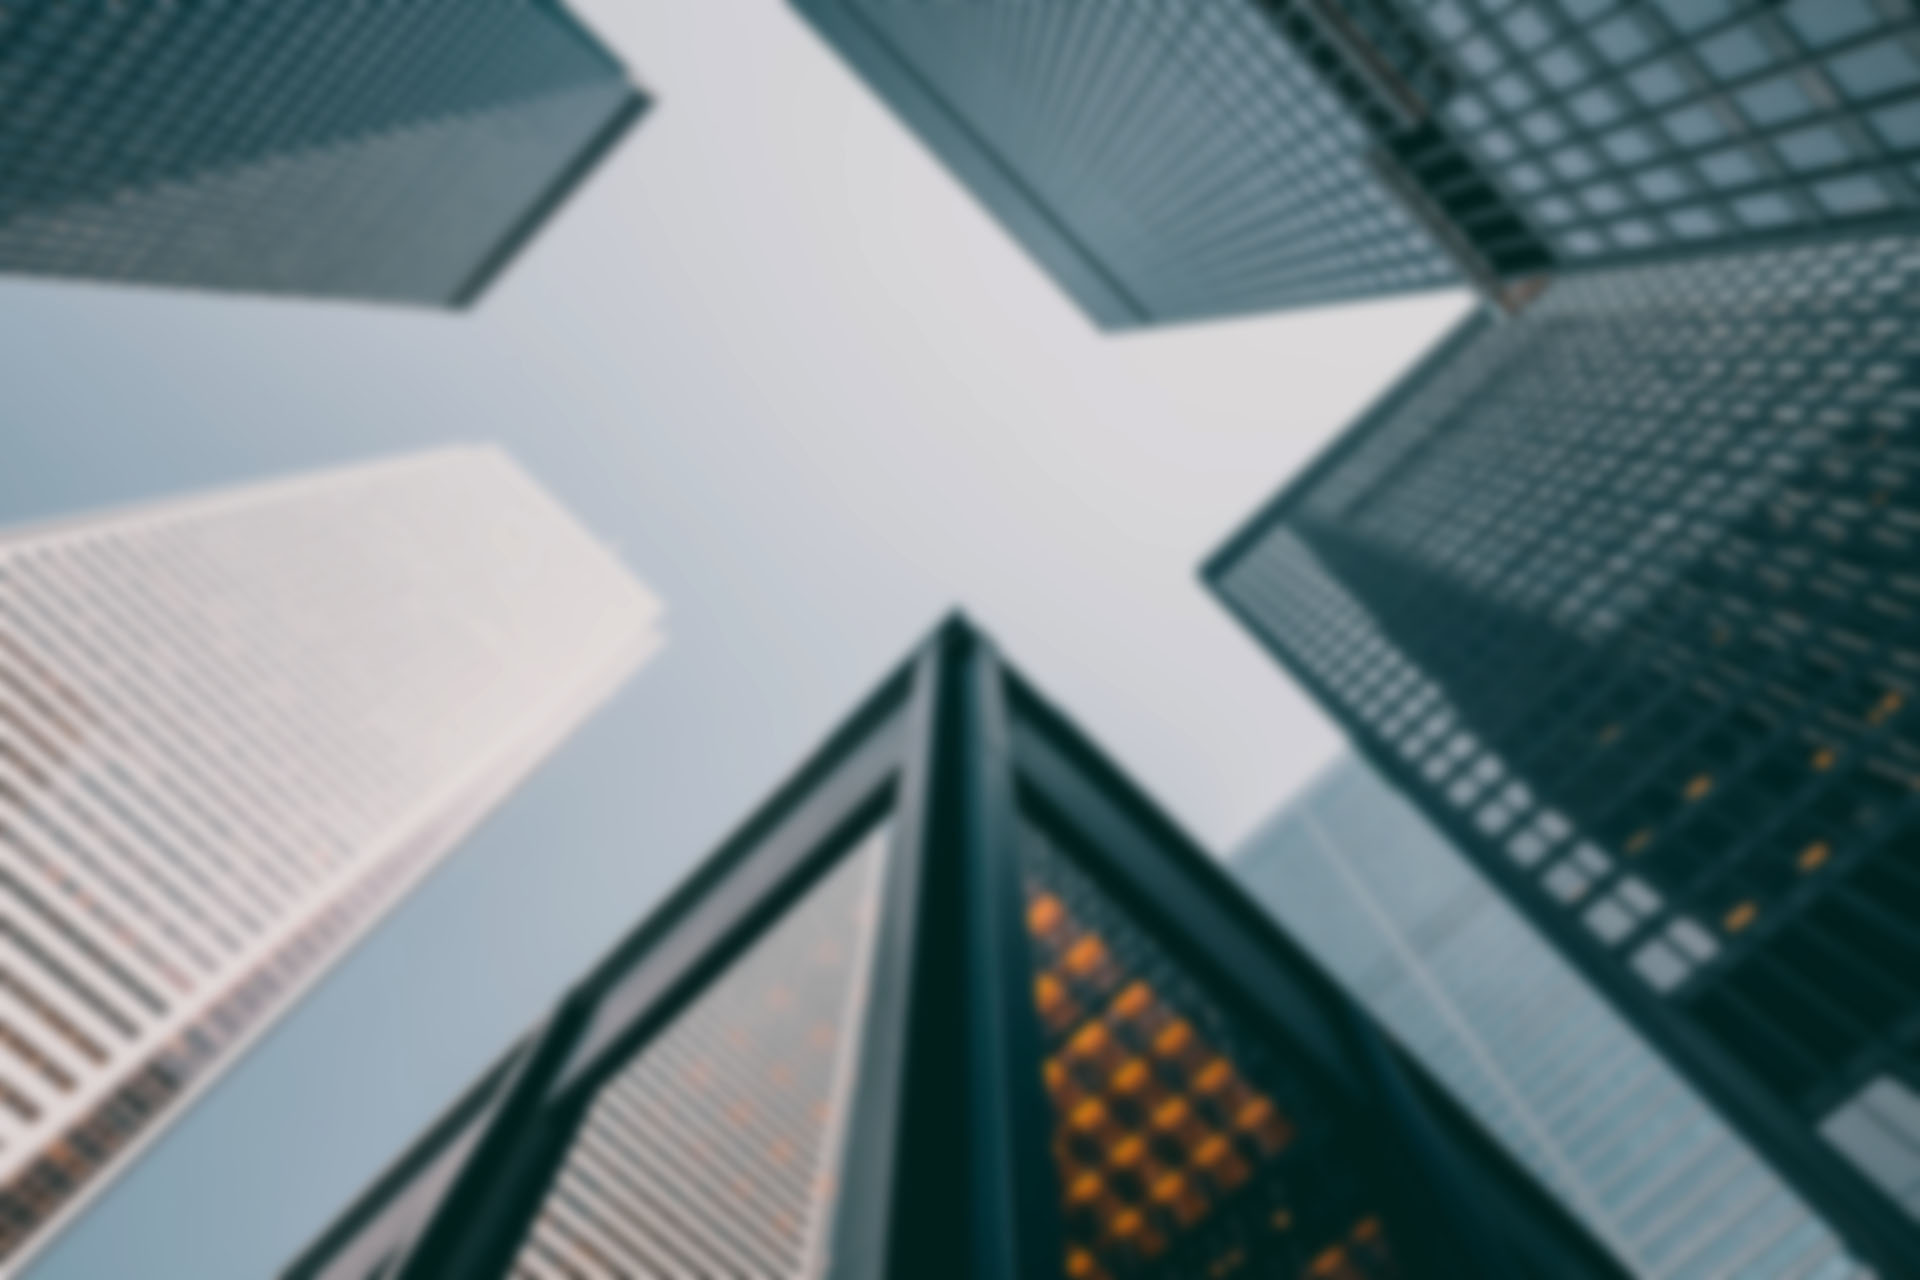
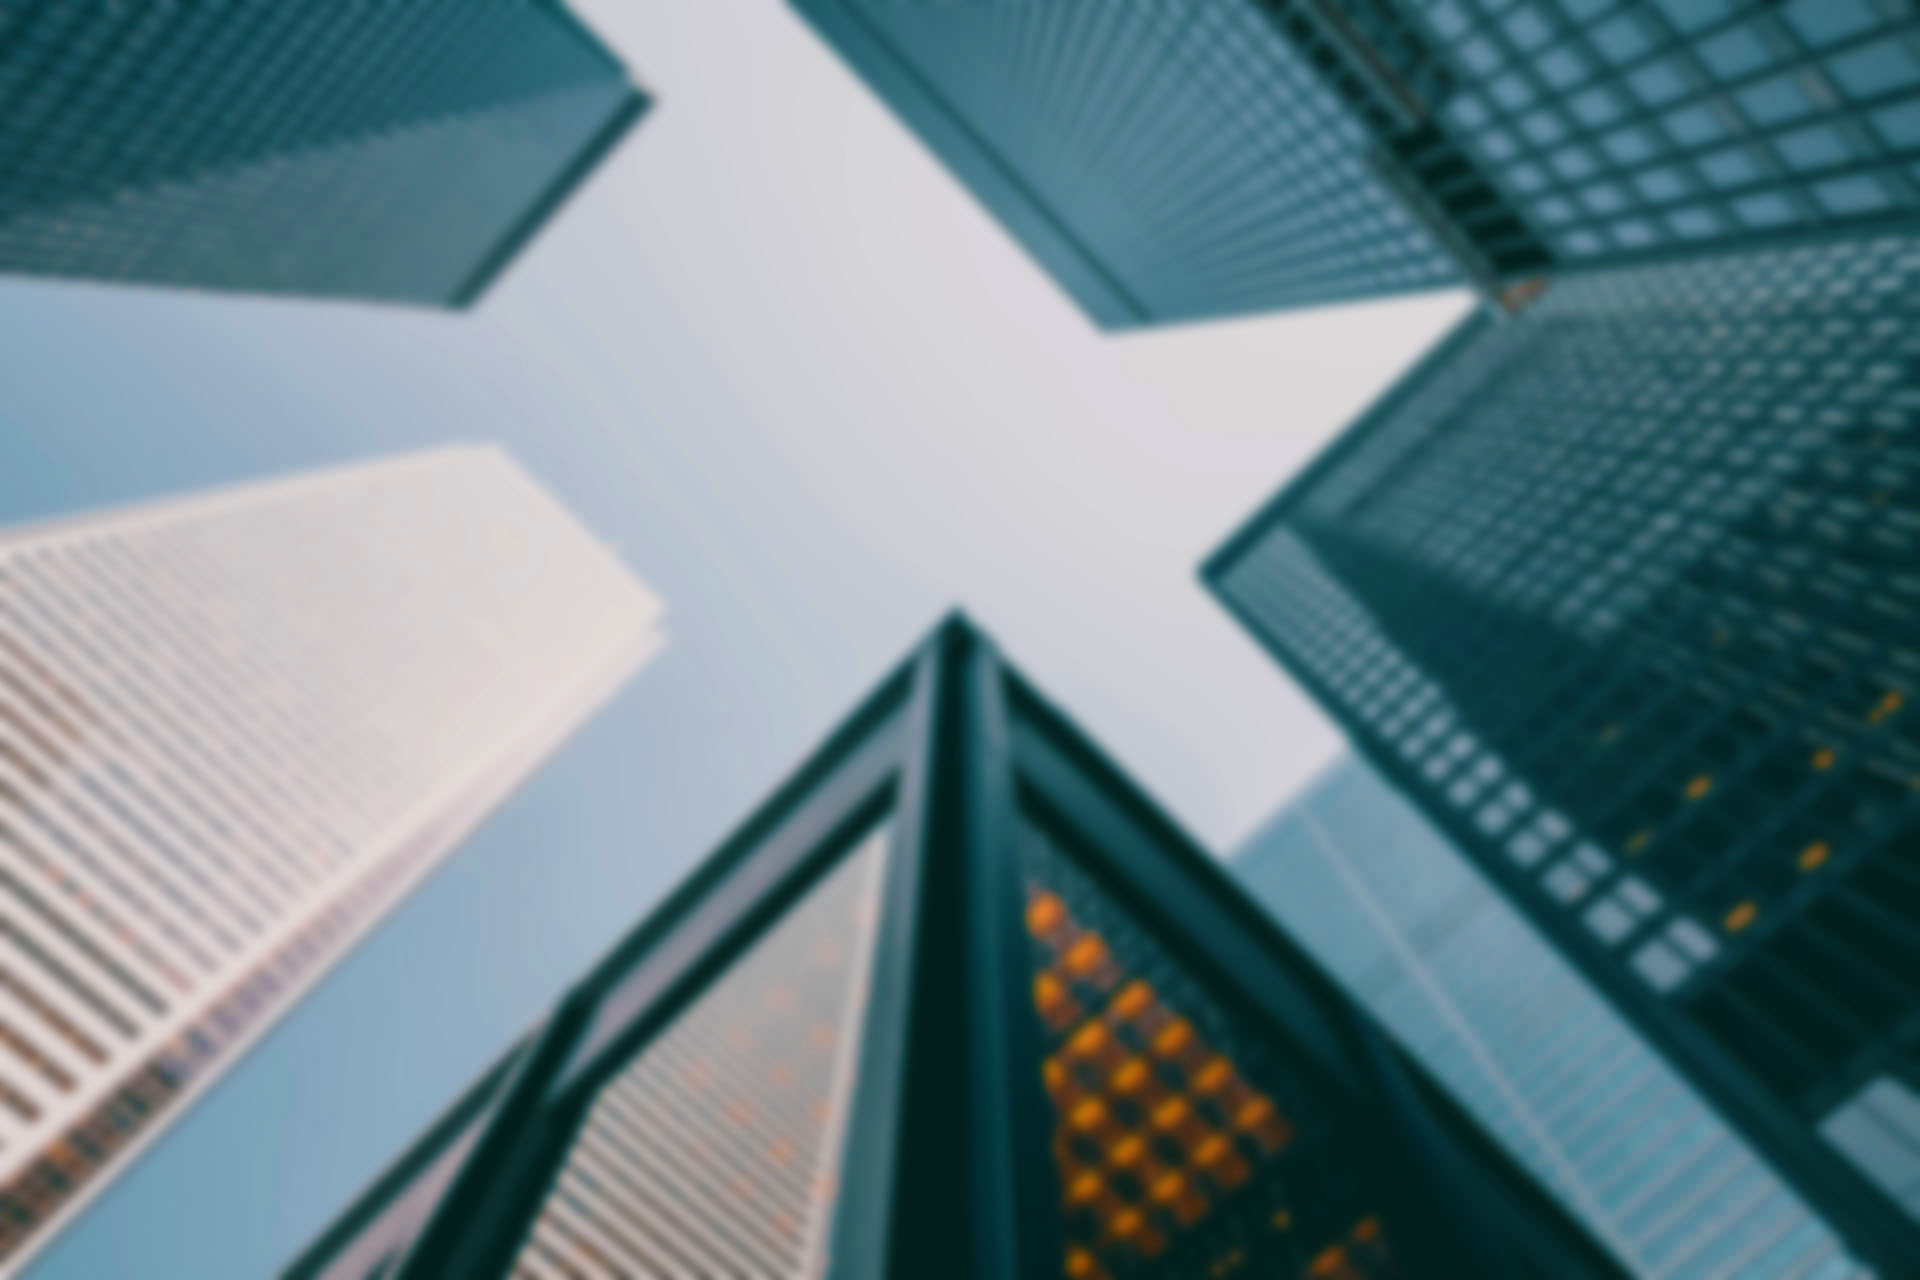
datasets table changes - short desc popup, sort fixed // bg brighter

diff --git a/src/pages/datasets.js b/src/pages/datasets.js
@@ -1,6 +1,5 @@
 import React from 'react';
 import '../styles/index.css';
-import Layout from '../components/Layout';
 import styled from 'styled-components';
 import { StaticQuery, graphql, Link } from 'gatsby';
 import ReactTable from 'react-table-6';
@@ -11,6 +10,10 @@ import {
 } from 'react-tabs';
 import DatasetPlotContainer from '../components/Plots/DatasetPlotContainer';
 import 'react-tabs/style/react-tabs.css';
+
+import { Popup } from 'semantic-ui-react';
+import Layout from '../components/Layout';
+import 'semantic-ui-css/semantic.min.css';
 
 import sortArrows from '../images/utils/sort-arrows.png';
 
@@ -49,6 +52,20 @@ const StyledDatasets = styled.div`
         float: right;
     }
 
+    .name-cell {
+      display:flex;
+      align-items:center;
+      flex-direction:row;
+      justify-content:flex-start;
+      
+      .qmark {
+        font-size: 0.7em;
+        font-weight: bold;
+        align-self: flex-start;
+        cursor: pointer;
+        margin-left:6px;
+      }
+    }
     
 `;
 
@@ -109,7 +126,16 @@ const columns = [{
   ),
   accessor: 'node.name',
   sortable: true,
-  Cell: (row) => (<Link to={`/datasets/${row.original.node.slug}`}>{row.value}</Link>),
+  Cell: (row) => (
+    <div className="name-cell">
+      <Link to={`/datasets/${row.original.node.slug}`}>{row.value}</Link>
+      <Popup hoverable trigger={<div className="qmark">(?)</div>}>
+        <Popup.Content>
+          {row.original.node.short_desc}
+        </Popup.Content>
+      </Popup>
+    </div>
+  ),
 },
 {
   Header: () => (
@@ -119,6 +145,7 @@ const columns = [{
       <img className="arrow" alt="arrow" src={sortArrows} />
     </span>
   ),
+  sortMethod(a, b) { return b - a; },
   accessor: 'node.num_samples',
   sortable: true,
 },
@@ -132,6 +159,7 @@ const columns = [{
   ),
   accessor: 'node.year_created',
   sortable: true,
+  sortMethod(a, b) { return b - a; },
 },
 {
   Header: () => (
@@ -142,17 +170,6 @@ const columns = [{
     </span>
   ),
   accessor: 'node.technology',
-  sortable: true,
-},
-{
-  Header: () => (
-    <span>
-      Short Description
-      {' '}
-      <img className="arrow" alt="arrow" src={sortArrows} />
-    </span>
-  ),
-  accessor: 'node.short_desc',
   sortable: true,
 },
 {

diff --git a/src/styles/index.css b/src/styles/index.css
@@ -1,9 +1,10 @@
 :root {
-    --main-color: #02577b;
+    --main-color: #1d7597;
+    /* #02577b; */
     --main-color-lighter:#1d7597;
-    --header-bg:#02577b;
+    --header-bg:#11759c;
     --contrast-bg: #f7f7f7;
-    --footer-bg: #02577b;
+    --footer-bg: #11759c;
     --link-hov:#fab058;
     --link-hov-dark:#df861c;
     --disabled-link:#bfbfbf;
@@ -30,6 +31,10 @@ a {
 
 a:hover {
     transition: 0.3s;
+}
+
+h1 {
+    color: var(--main-color);
 }
 
 /* Burger Menu */

diff --git a/src/pages/index.js b/src/pages/index.js
@@ -5,7 +5,7 @@ import scrollTo from 'gatsby-plugin-smoothscroll';
 import Layout from '../components/Layout';
 // import Mission from '../components/Home/Mission';
 import Members from '../components/Home/Members';
-import bg from '../images/bg-dark.jpg';
+import bg from '../images/bg.jpg';
 import Header from '../components/Header';
 
 const StyledHome = styled.div`

diff --git a/src/components/BurgerMenu.js b/src/components/BurgerMenu.js
@@ -2,6 +2,7 @@ import { slide as Menu } from 'react-burger-menu';
 import { Link } from 'gatsby';
 import React from 'react';
 
+
 const BurgerMenu = () => {
   const showSettings = (event) => {
     event.preventDefault();

diff --git a/src/components/Header.js b/src/components/Header.js
@@ -9,7 +9,6 @@ const StyledHeader = styled.div`
   width:100%;
   background: ${(props) => (props.page === 'home' ? 'none' : 'var(--header-bg)')};
   padding:5px 0px;
-  height: 70px;
   top: 0px;
   z-index:999;
 
